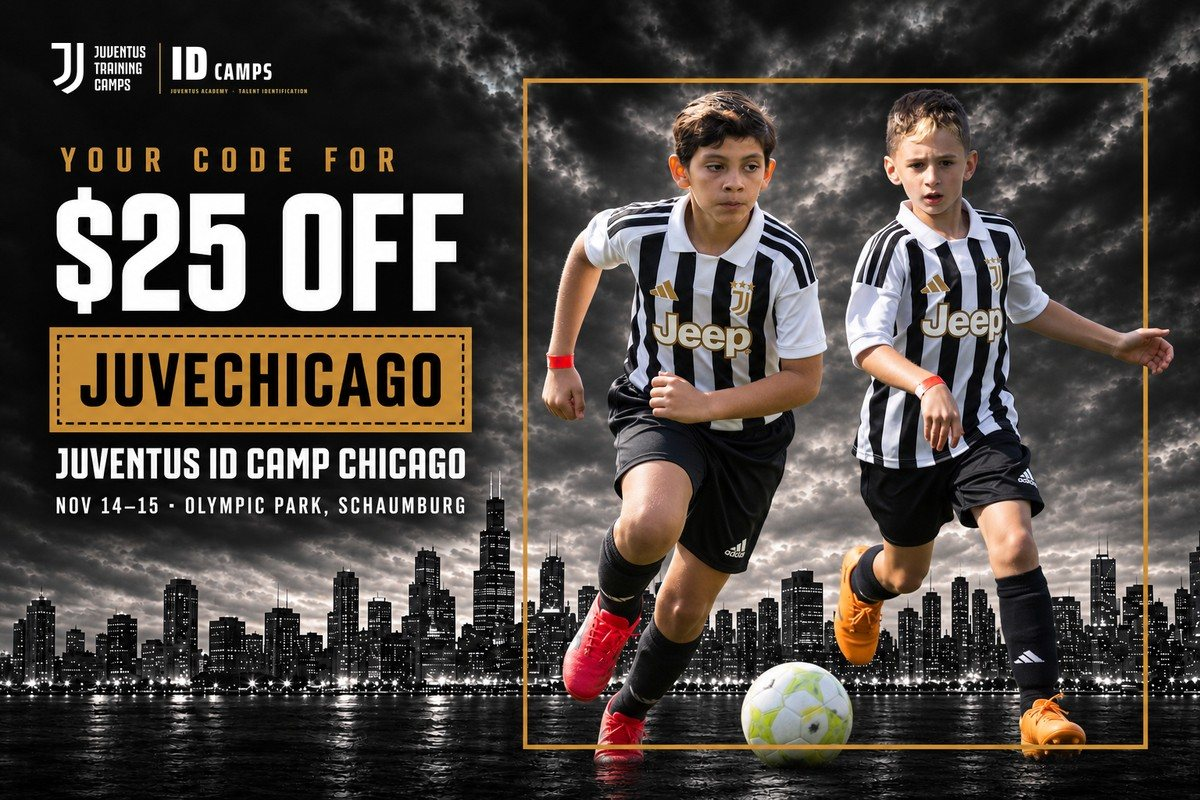
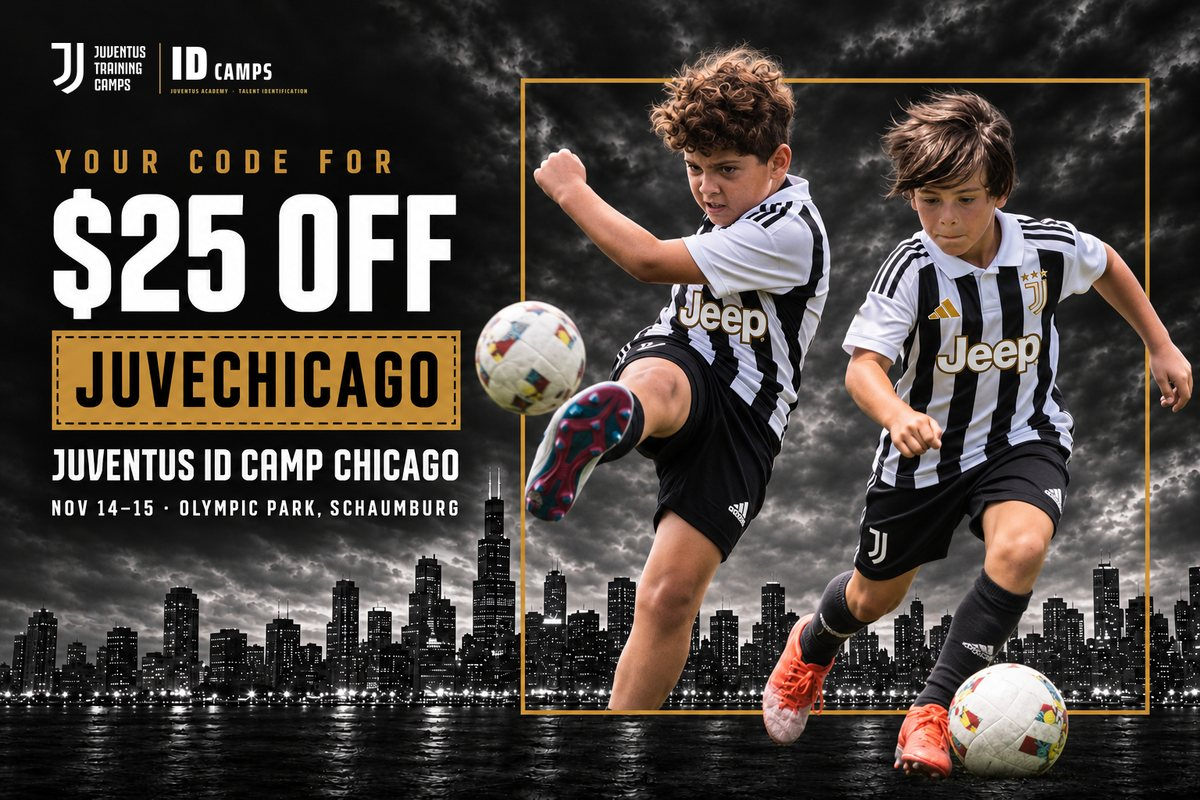
Cupon JUVECHICAGO: cabecera v2 (mas accion)

diff --git a/email_chi_cupon_email.html b/email_chi_cupon_email.html
@@ -6,7 +6,7 @@
 <table role="presentation" width="100%" cellpadding="0" cellspacing="0" border="0" style="background-color:#eceae6;">
 <tr><td align="center" style="padding:16px 8px;">
 <table role="presentation" width="600" cellpadding="0" cellspacing="0" border="0" style="width:100%;max-width:600px;background-color:#ffffff;">
-<tr><td><a href="https://juventuscampsusa.com/id-camps/127/Chicago?utm_source=email&utm_medium=email&utm_campaign=idcamps_2627&utm_term=chi&utm_content=chi_cupon_email#:~:text=Register%20%2D%20Juventus%20Training%20Camps"><img src="img/cab_chi_cupon.jpg" width="600" alt="Your $25 code for the Juventus ID Camp Chicago: JUVECHICAGO" style="display:block;width:100%;max-width:600px;height:auto;border:0;margin:0;"></a></td></tr>
+<tr><td><a href="https://juventuscampsusa.com/id-camps/127/Chicago?utm_source=email&utm_medium=email&utm_campaign=idcamps_2627&utm_term=chi&utm_content=chi_cupon_email#:~:text=Register%20%2D%20Juventus%20Training%20Camps"><img src="img/cab_chi_cupon.jpg?v=2" width="600" alt="Your $25 code for the Juventus ID Camp Chicago: JUVECHICAGO" style="display:block;width:100%;max-width:600px;height:auto;border:0;margin:0;"></a></td></tr>
 <tr><td style="padding:28px 30px 6px;font-family:Arial,Helvetica,sans-serif;font-size:16px;line-height:25px;color:#111111;">
 <p style="margin:0 0 14px;">Hi Maria,</p><p style="margin:0 0 14px;">You started registering your player for the Juventus ID Camp Chicago, and we would love to see them on the field with the Juventus Academy coaches. To help you finish, here is a <b>$25 discount</b>:</p><table role="presentation" width="100%" cellpadding="0" cellspacing="0" border="0" style="margin:6px 0 18px;"><tr><td align="center" style="background-color:#111111;padding:18px 16px;"><div style="font-family:Arial,Helvetica,sans-serif;font-size:13px;letter-spacing:3px;color:#A87A2D;font-weight:bold;">YOUR CODE · $25 OFF</div><div style="margin:10px auto 8px;display:inline-block;border:2px dashed #A87A2D;padding:10px 22px;font-family:Arial,Helvetica,sans-serif;font-size:30px;letter-spacing:3px;font-weight:bold;color:#ffffff;">JUVECHICAGO</div><div style="font-family:Arial,Helvetica,sans-serif;font-size:13px;color:#dddddd;">Valid until November 13</div></td></tr></table><p style="margin:0 0 14px;"><b>How to use it:</b> open the registration, add your player and type <b>JUVECHICAGO</b> in the Coupon field before paying.</p><table role="presentation" width="100%" cellpadding="0" cellspacing="0" border="0" style="margin:4px 0 12px;"><tr><td style="font-family:Arial,Helvetica,sans-serif;font-size:16px;line-height:27px;color:#111111;"><span style="color:#A87A2D;font-weight:bold;">&#10003;</span> Two days of training with official Juventus Academy coaches from Italy<br><span style="color:#A87A2D;font-weight:bold;">&#10003;</span> Groups by age, with coaches correcting each player up close<br><span style="color:#A87A2D;font-weight:bold;">&#10003;</span> Standout players are noted for future opportunities, like the Juventus Training Experience in Italy</td></tr></table><table role="presentation" width="100%" cellpadding="0" cellspacing="0" border="0" style="margin:16px 0;"><tr><td style="background-color:#111111;padding:14px 18px;font-family:Arial,Helvetica,sans-serif;font-size:15px;line-height:26px;color:#ffffff;">&#128197; Saturday and Sunday, November 14–15 · 10 AM–2 PM<br>&#128205; Olympic Park, 1675 Old Schaumburg Rd, Schaumburg, IL 60173<br>&#9917; Boys and girls 6–16, players and goalkeepers</td></tr></table><table role="presentation" cellpadding="0" cellspacing="0" border="0" align="center" style="margin:22px auto 10px;"><tr><td align="center" bgcolor="#A87A2D" style="background-color:#A87A2D;"><a href="https://juventuscampsusa.com/id-camps/127/Chicago?utm_source=email&utm_medium=email&utm_campaign=idcamps_2627&utm_term=chi&utm_content=chi_cupon_email#:~:text=Register%20%2D%20Juventus%20Training%20Camps" style="display:inline-block;padding:15px 30px;font-family:Arial,Helvetica,sans-serif;font-size:14px;font-weight:bold;letter-spacing:1px;text-transform:uppercase;color:#111111;text-decoration:none;">Use my code &rarr;</a></td></tr></table><a href="https://juventuscampsusa.com/id-camps/127/Chicago?utm_source=email&utm_medium=email&utm_campaign=idcamps_2627&utm_term=chi&utm_content=chi_cupon_email#:~:text=Register%20%2D%20Juventus%20Training%20Camps"><img src="img/fin_juego_v2.jpg" width="540" alt="Juventus ID Camp Chicago" style="display:block;width:100%;max-width:540px;height:auto;border:0;margin:18px 0 8px;"></a>
 </td></tr>
